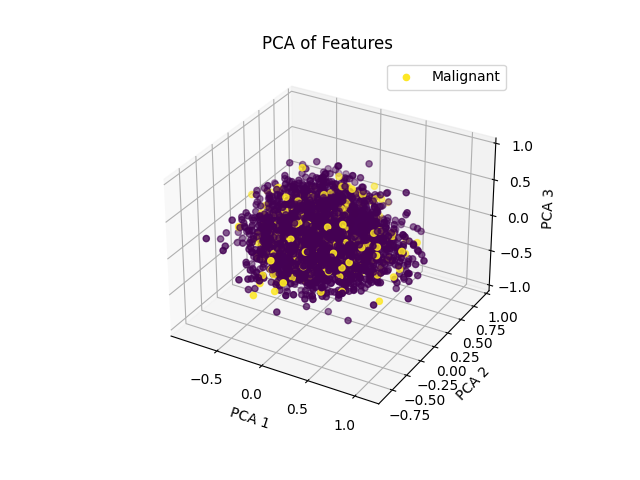
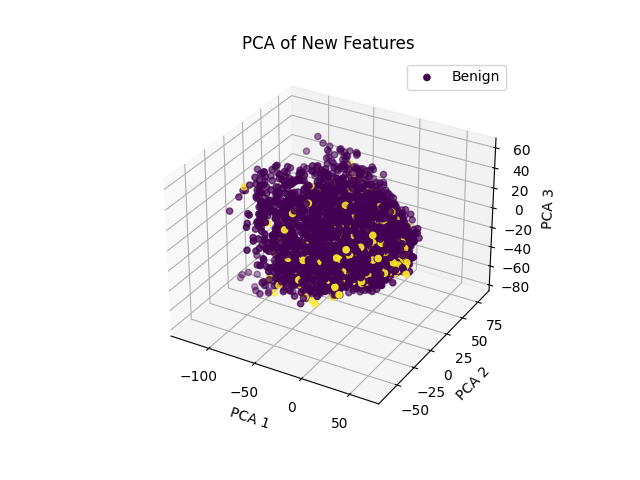
grad cam

diff --git a/testing/grad_cam.py b/testing/grad_cam.py
@@ -1,0 +1,82 @@
+import sys
+import os
+sys.path.append(os.path.abspath(os.path.join(os.path.dirname(__file__), '..')))
+
+import torch
+from pytorch_grad_cam import GradCAM
+from pytorch_grad_cam.utils.model_targets import ClassifierOutputTarget
+from pytorch_grad_cam.utils.image import show_cam_on_image
+from models.model_2d import ResNet18
+import matplotlib.pyplot as plt
+
+import pandas as pd
+import numpy as np
+from training.experiment_config import config
+from training.dataloader import get_data_loader
+from itertools import islice
+import cv2
+
+if __name__ == "__main__":
+
+	# load best model
+	model = ResNet18()
+	device = torch.device('cpu')
+	model.load_state_dict(torch.load(
+		r"results\baseline2D_adam10epochs\best_metric_model.pth",
+		map_location='cpu'
+	))
+
+	target_layers = [model.resnet18.layer4[-1]]
+
+	valid = pd.read_csv(config.CSV_DIR_VALID)
+	image_loader = get_data_loader(
+		data_dir=config.DATADIR,
+		dataset=valid,
+		mode=config.MODE,
+		workers=8,
+		batch_size=config.BATCH_SIZE,
+		size_px=config.SIZE_PX,
+		size_mm=config.SIZE_MM,
+		rotations=config.ROTATION,
+		translations=config.TRANSLATION,
+		)
+
+	
+	desired_index = 61
+	data = next(islice(image_loader, desired_index, None))
+	label = data["label"].float().to(device)
+	inputs = data["image"]
+	input_tensor = inputs.to(device)
+
+	#input_tensor = # Create an input tensor image for your model..
+	# Note: input_tensor can be a batch tensor with several images!
+
+	# We have to specify the target we want to generate the CAM for.
+	targets = [ClassifierOutputTarget(0)]
+
+	# Assuming inputs is a batch tensor: (B, C, H, W)
+	input_img = inputs[0].detach().cpu().numpy()  # Take the first image in the batch
+	input_img = np.transpose(input_img, (1, 2, 0))  # (C, H, W) -> (H, W, C)
+	input_img = (input_img - input_img.min()) / (input_img.max() - input_img.min() + 1e-8)  # Normalize to [0, 1]
+	input_img = input_img.astype(np.float32)
+
+	# Construct the CAM object once, and then re-use it on many images.
+	with GradCAM(model=model, target_layers=target_layers) as cam:
+		# You can also pass aug_smooth=True and eigen_smooth=True, to apply smoothing.
+		grayscale_cam = cam(input_tensor=input_tensor, targets=targets)
+		# In this example grayscale_cam has only one image in the batch:
+		grayscale_cam = grayscale_cam[0, :]
+		# input_img.shape: (H, W, C)
+		h, w = input_img.shape[:2]
+		# Upsample grayscale_cam to input image size
+		grayscale_cam_resized = cv2.resize(grayscale_cam, (w, h), interpolation=cv2.INTER_LINEAR)
+		visualization = show_cam_on_image(input_img, grayscale_cam_resized, use_rgb=True)
+		# You can also get the model outputs without having to redo inference
+		model_outputs = cam.outputs
+
+		plt.imshow(visualization)
+		plt.axis('off')
+		plt.title('Grad-CAM')
+		plt.show()
+		plt.imsave("testing\grad_cam_result.png", visualization, dpi=300)
+

diff --git a/hybrid_dl/dimensionality_reduction.py b/hybrid_dl/dimensionality_reduction.py
@@ -1,7 +1,7 @@
 import numpy as np
-from sklearn.decomposition import PCA, KernelPCA
+from sklearn.decomposition import PCA
+from sklearn.manifold import TSNE
 from sklearn import random_projection
-
 import matplotlib.pyplot as plt
 from mpl_toolkits.mplot3d import Axes3D
 
@@ -11,29 +11,48 @@ load_dotenv()
 working_dir = os.getenv("WORKING_DIR")
 
 data = np.loadtxt(
-	working_dir + "\hybrid_dl" + "\\features_with_labels_train.csv",
+	working_dir + "\\hybrid_dl" + "\\features_train_vgg.csv",
 	delimiter=',', skiprows=1)
 
 X = data[:, :-1]
 
-#pca = KernelPCA(n_components=10, kernel='linear')
-#X_transformed = pca.fit_transform(X)
-
-transformer = random_projection.GaussianRandomProjection(eps=0.5)
+transformer = random_projection.SparseRandomProjection(eps=0.3)
 X = transformer.fit_transform(X)
 print(X.shape)
 
+# save new dataset
+np.savetxt(
+	working_dir + "\\hybrid_dl" + "\\new_features_train_vgg.csv",
+	np.hstack([X, data[:, -1:]]),
+	delimiter=',',
+	header=','.join([f'feat_{i}' for i in range(X.shape[1])]) + ',label',
+	comments=''
+)
+
+# Dim reduction for visualization
 pca = PCA(n_components=3)
 X_pca = pca.fit_transform(X)
-#print(pca.explained_variance_ratio_)
 
-# plot
+tsne = TSNE(n_components=3, random_state=42, perplexity=30)
+X_tsne = tsne.fit_transform(X)
+
+# save plots
 fig = plt.figure()
 ax = fig.add_subplot(111, projection='3d')
 ax.scatter(X_pca[:, 0], X_pca[:, 1], X_pca[:, 2], c=data[:, -1], cmap='viridis', marker='o')
-plt.legend(['Malignant', 'Benign'], loc='upper right')
+plt.legend(['Benign', 'Malignant'], loc='upper right')
 ax.set_xlabel('PCA 1')
 ax.set_ylabel('PCA 2')
 ax.set_zlabel('PCA 3')
-plt.title('PCA of Features')
+plt.title('PCA of New Features')
 plt.savefig("hybrid_dl/pca_features.png")
+
+fig = plt.figure()
+ax = fig.add_subplot(111, projection='3d')
+ax.scatter(X_tsne[:, 0], X_tsne[:, 1], X_tsne[:, 2], c=data[:, -1], cmap='viridis', marker='o')
+plt.legend(['Benign', 'Malignant'], loc='upper right')
+ax.set_xlabel('t-SNE 1')
+ax.set_ylabel('t-SNE 2')
+ax.set_zlabel('t-SNE 3')
+plt.title('t-SNE of New Features')
+plt.savefig("hybrid_dl/tsne_features.png")

diff --git a/hybrid_dl/dl_models.py b/hybrid_dl/dl_models.py
@@ -2,9 +2,9 @@ import torch
 import torch.nn as nn
 import torchvision.models as models
 
-class ResNet18(nn.Module):
+class ResNet18_Features(nn.Module):
     def __init__(self, num_classes=1, weights='IMAGENET1K_V1'):
-        super(ResNet18, self).__init__()
+        super(ResNet18_Features, self).__init__()
         # Load pretrained ResNet18
         self.resnet18 = models.resnet18(weights=weights)
         self.features = nn.Sequential(*list(self.resnet18.children())[:-1])
@@ -14,12 +14,26 @@ class ResNet18(nn.Module):
         x = torch.flatten(x, 1)
         return x
 
+class VGG16_Features(nn.Module):
+    def __init__(self, weights='IMAGENET1K_V1'):
+        super().__init__()
+        self.vgg16 = models.vgg16(weights=weights)
+        self.features = self.vgg16.features  # convolutional part
+        self.avgpool = self.vgg16.avgpool    # avgpool layer
+
+    def forward(self, x):
+        x = self.features(x)
+        x = self.avgpool(x)
+        x = torch.flatten(x, 1)  # flatten to (batch, 25088)
+        return x
+
+
 # To test the model definition:
-if __name__ == "__main__":
-    image = torch.randn(4, 3, 64, 64)
+# if __name__ == "__main__":
+#     image = torch.randn(4, 3, 64, 64)
 
-    model = ResNet18()
+#     model = ResNet18_Features()
 
-    # input image to model
-    output = model(image)
+#     # input image to model
+#     output = model(image)
     

diff --git a/hybrid_dl/prediction.py b/hybrid_dl/prediction.py
@@ -1,0 +1,42 @@
+import numpy as np
+import pandas as pd
+from sklearn.svm import SVC
+from sklearn.metrics import roc_auc_score
+from sklearn.model_selection import train_test_split
+
+# Load features and labels
+df = pd.read_csv("hybrid_dl/new_features_train_vgg.csv")
+X = df.drop(columns=["label"]).values
+y = df["label"].values
+
+# Split into train/validation for quick test
+X_train, X_val, y_train, y_val = train_test_split(X, y, test_size=0.2, random_state=42, stratify=y)
+
+# Train SVM (with probability=True for AUC)
+# clf = SVC(kernel='sigmoid', probability=True, random_state=42)
+# clf.fit(X_train, y_train)
+
+# # Predict probabilities for validation set
+# y_proba = clf.predict_proba(X_val)[:, 1]
+
+# # Compute AUC
+# auc = roc_auc_score(y_val, y_proba)
+# print(f"SVM validation AUC: {auc:.3f}")
+
+from sklearn.neighbors import KNeighborsClassifier
+
+# Train KNN
+best_auc = 0
+best_k = None
+
+for k in range(1, 100):  # Try k from 1 to 50
+    knn = KNeighborsClassifier(n_neighbors=k)
+    knn.fit(X_train, y_train)
+    y_proba_knn = knn.predict_proba(X_val)[:, 1]
+    auc_knn = roc_auc_score(y_val, y_proba_knn)
+    print(f"K={k}: KNN validation AUC: {auc_knn:.3f}")
+    if auc_knn > best_auc:
+        best_auc = auc_knn
+        best_k = k
+
+print(f"\nBest K: {best_k} with validation AUC: {best_auc:.3f}")

diff --git a/hybrid_dl/feature_extraction.py b/hybrid_dl/feature_extraction.py
@@ -11,7 +11,7 @@ from training.dataloader import get_data_loader
 from tqdm import tqdm
 
 import torch
-from dl_models import ResNet18
+from dl_models import ResNet18_Features, VGG16_Features
 
 if __name__ == "__main__":
 
@@ -32,7 +32,8 @@ if __name__ == "__main__":
 			translations=config.TRANSLATION,
 		)
 
-		model = ResNet18()
+		#model = ResNet18_Features()
+		model = VGG16_Features()
 		device = torch.device('cpu')
 		outputs = []
 		labels = []
@@ -61,4 +62,4 @@ if __name__ == "__main__":
 		feature_cols = [f'feat_{i}' for i in range(outputs.shape[1])]
 		df_out = pd.DataFrame(features_and_labels, columns=feature_cols + ['label'])
 
-		df_out.to_csv(config.WORKDIR +"\hybrid_dl" + f'features_with_labels_{split_name}.csv', index=False)
+		df_out.to_csv(f'features_{split_name}_vgg.csv', index=False)
